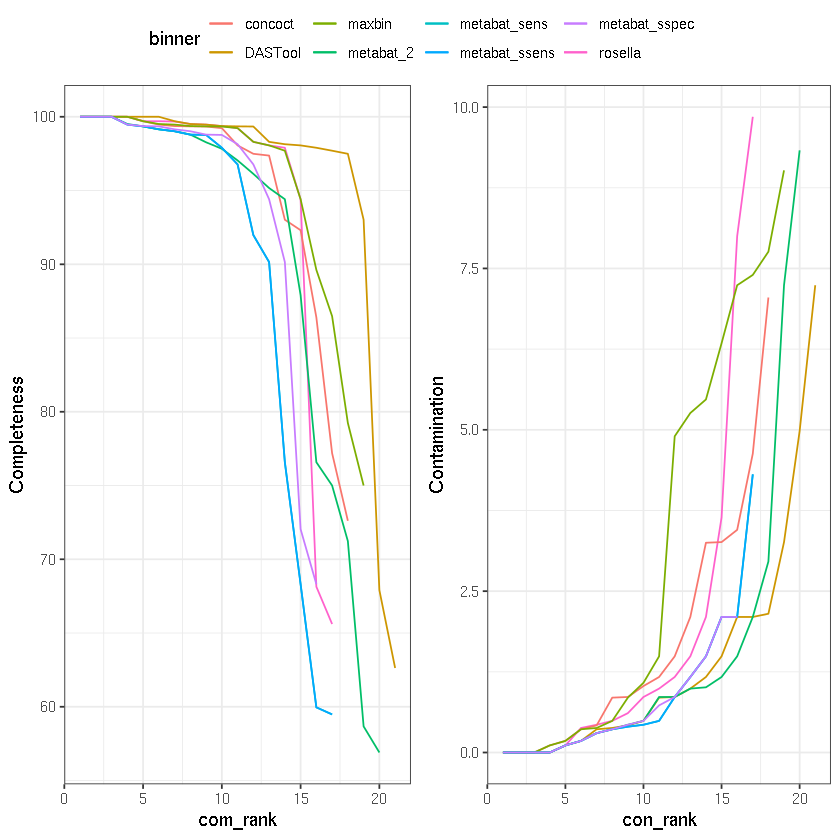
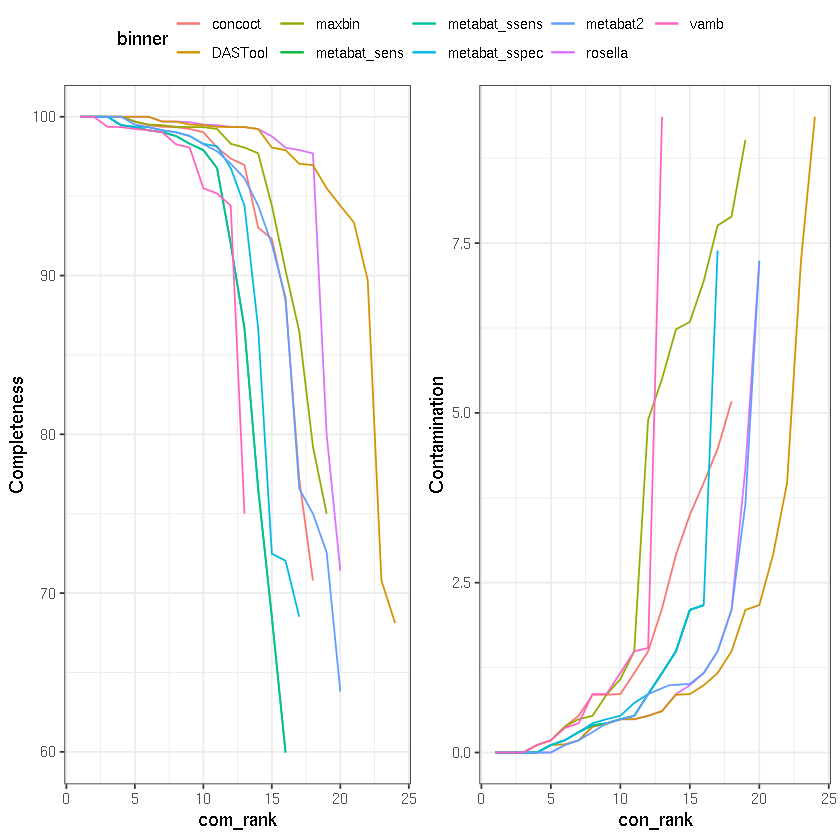
updating results plots

diff --git a/README.md b/README.md
@@ -132,13 +132,13 @@ The bins were than ranked by their completeness and contamination values separat
 
 ![CAMI Low](results/cami_low.png)
 
-Here rosella performs about as well as every other single binning tool.
+Here Rosella manages to outperform every other independent binning algorithm.
 
 ### CAMI Medium
 
 ![CAMI Med](results/cami_med.png)
 
-Here rosella begins to pull ahead and generate more bins of higher quality than
+Here rosella generates more bins of higher quality than
 the other single binning techniques. DASTool still results in the best results
 but the inclusion of rosella in the DASTool algorithm would only be beneficial.
 
